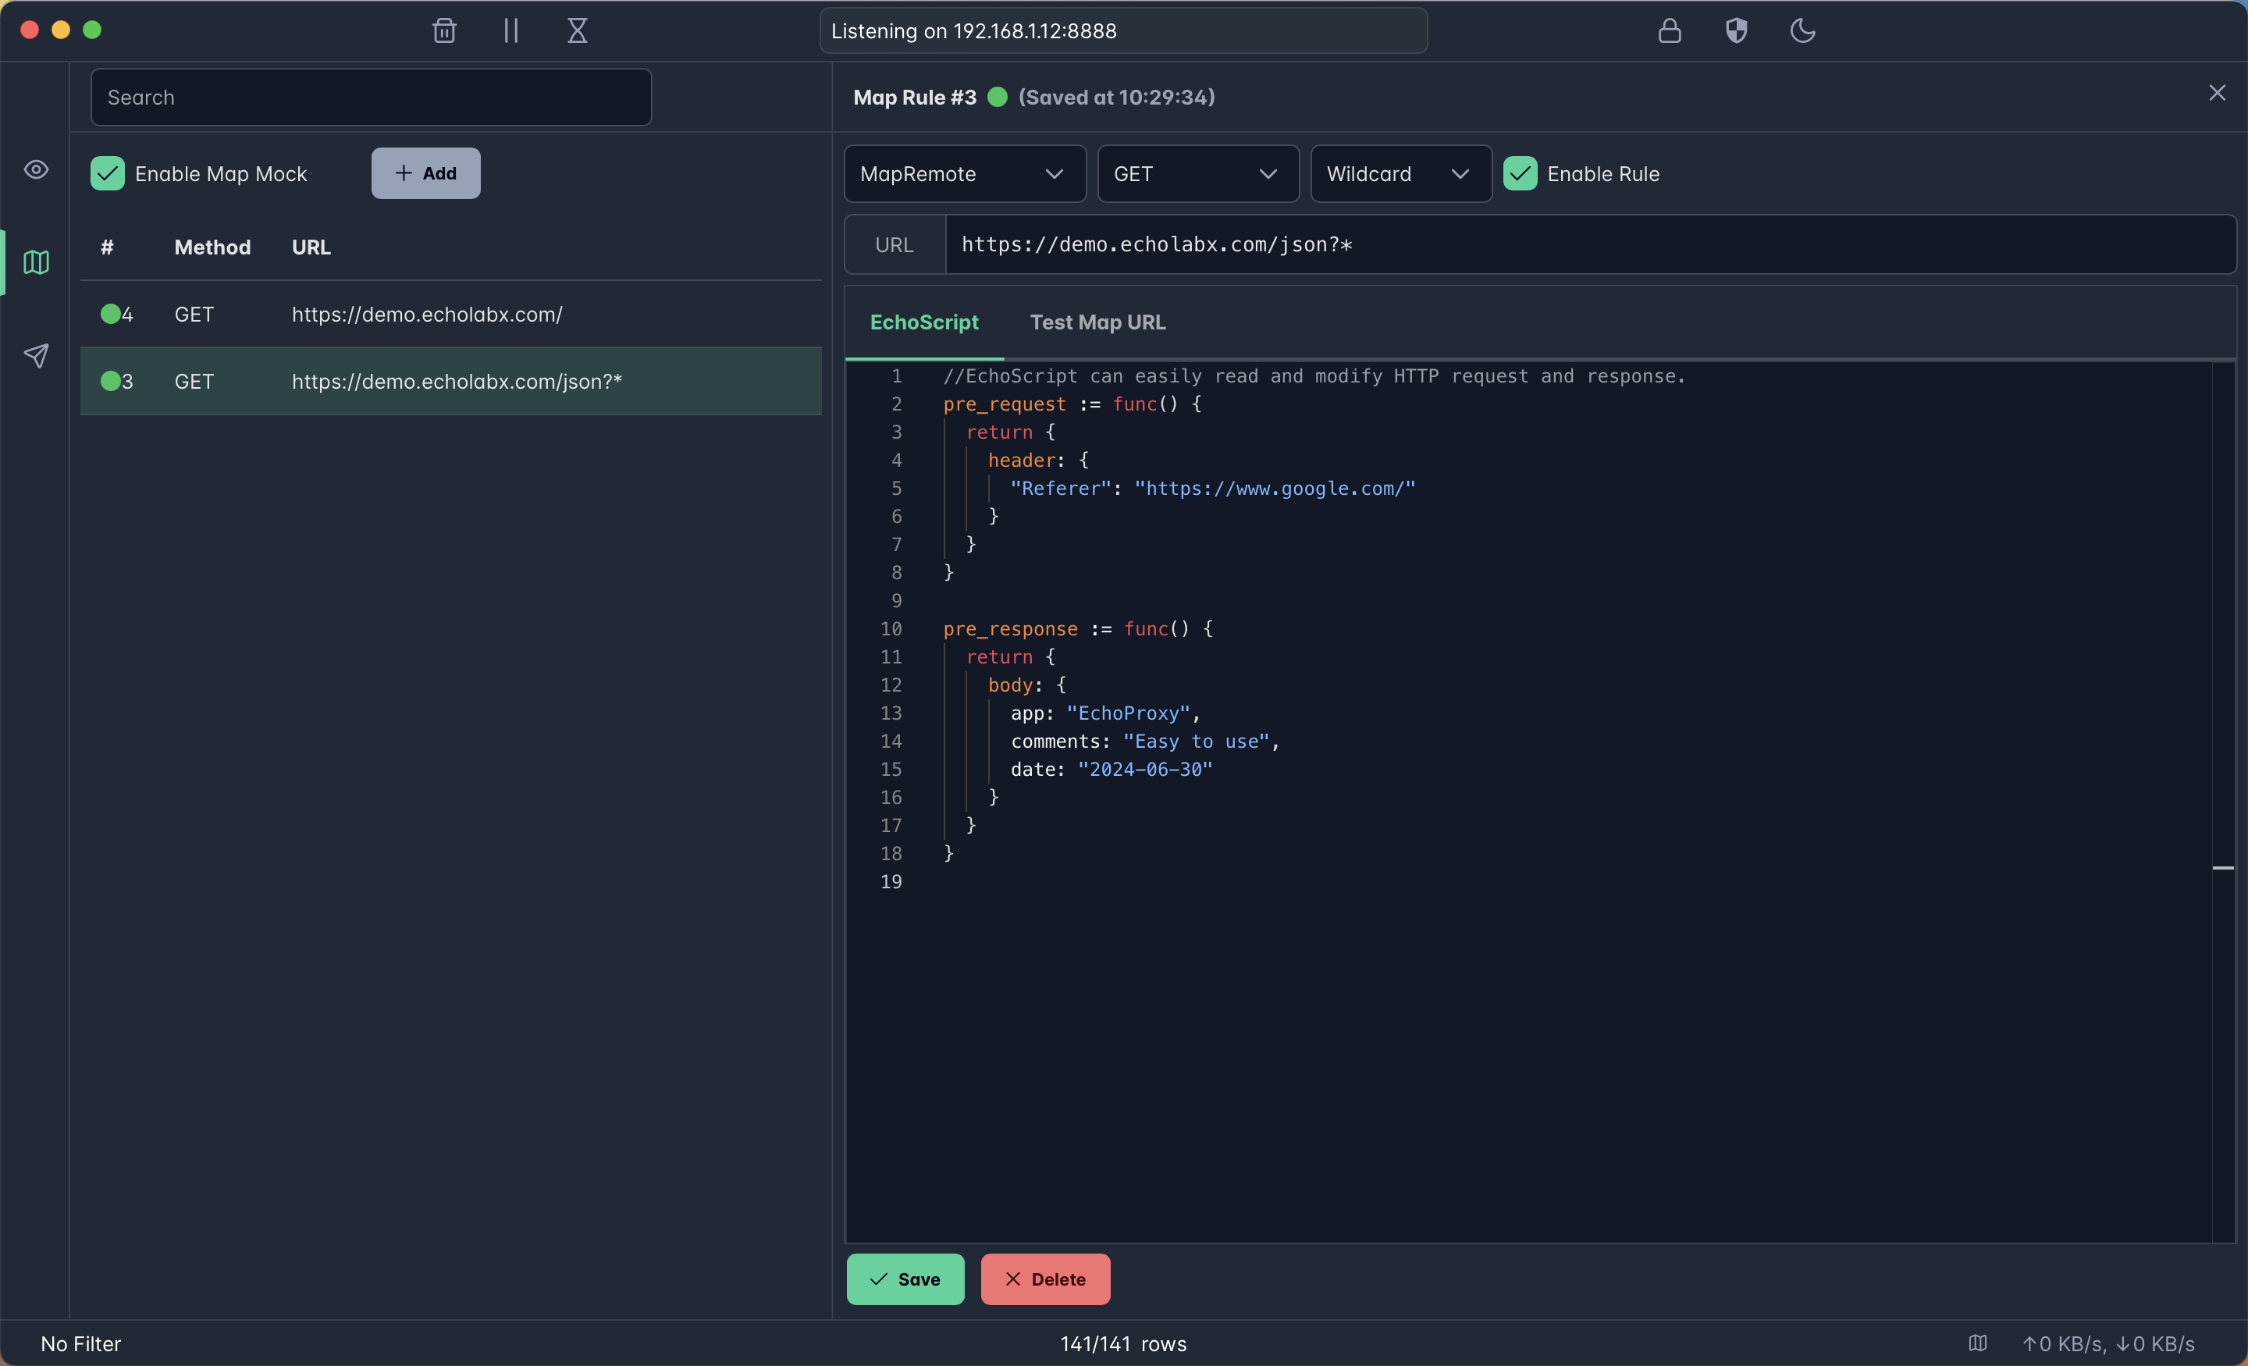
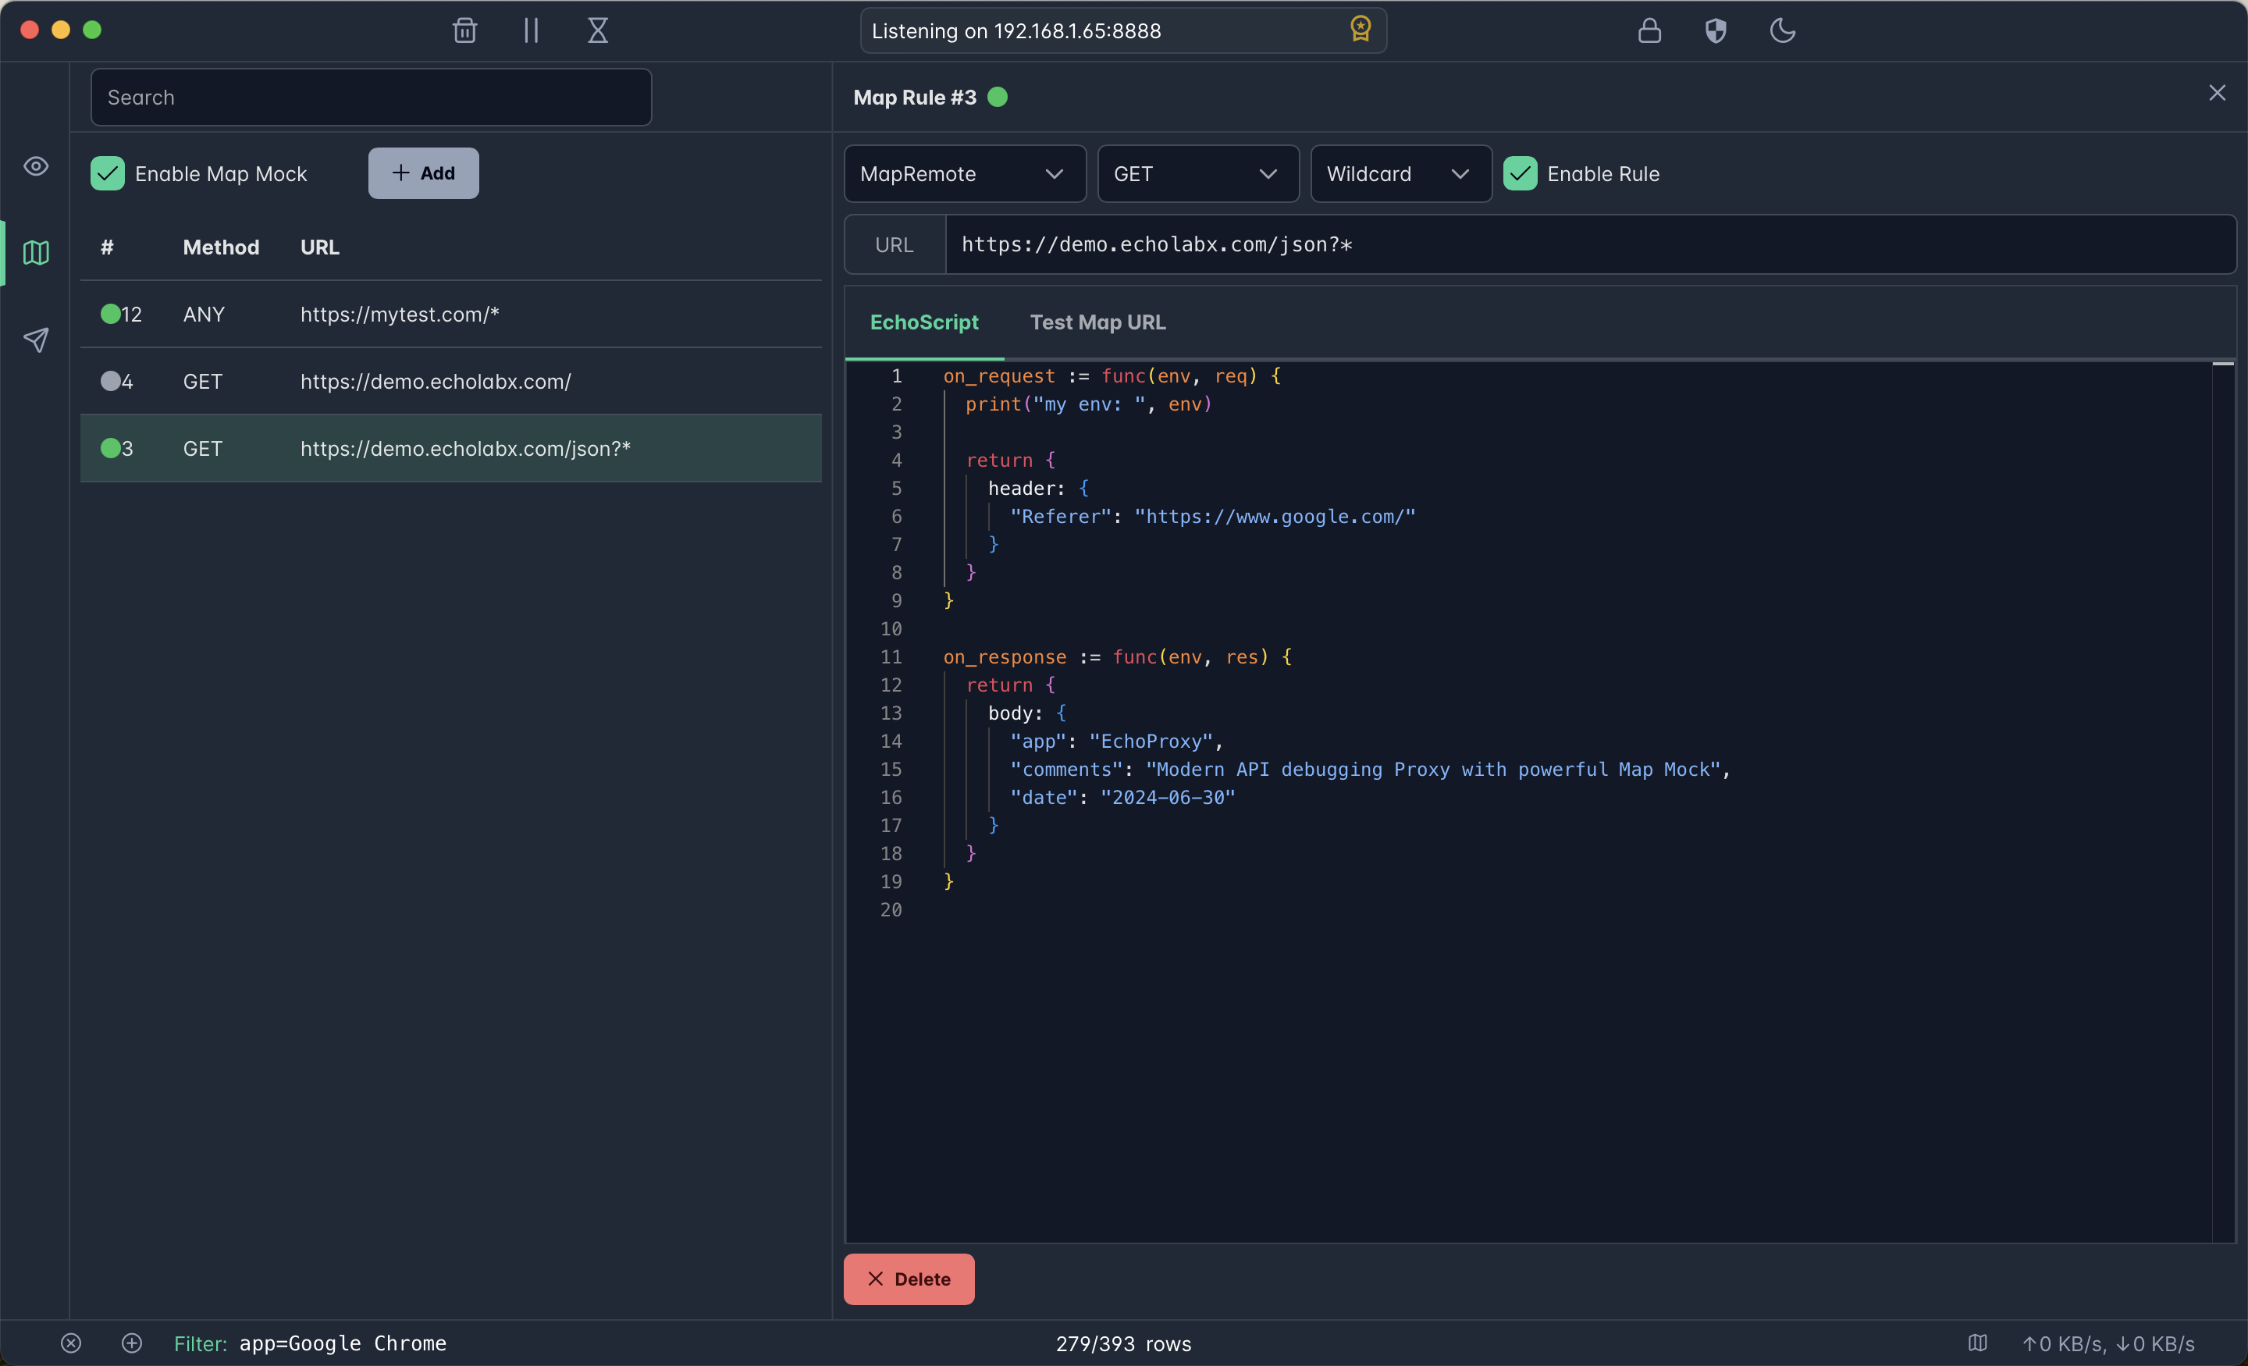
v0.9.1

diff --git a/README.md b/README.md
@@ -15,7 +15,7 @@ EchoProxy is a modern API debugging proxy that offers powerful mapping and mocki
 
 Change Request **URL** and **Method**. It can be used for mapping APIs from PROD to DEV.
 ```go
-pre_request := func() {
+on_request := func(env, req) {
   return {
     url: "http://127.0.0.1:8080/json",
     method: "GET"
@@ -23,13 +23,17 @@ pre_request := func() {
 }
 ```
 
-Change Request **Header**. It can be used for debugging other developer's API.
+Change Request **Header** and **Query**. It can be used for debugging other developer's API.
 ```go
-pre_request := func() {
+on_request := func(env, req) {
   return {
     header: {
       "Referer": "https://www.google.com/",
       "Accept-Encoding": "gzip"
+    },
+    query: {
+      "name": "EchoProxy",
+      "date": "2024-08-08"
     }
   }
 }
@@ -37,12 +41,12 @@ pre_request := func() {
 
 Change Response **Body**. It can be used for mocking APIs for debugging and testing.
 ```go
-pre_response := func() {
+on_response := func(env, res) {
   return {
     body: {
-      app: "EchoProxy",
-      comments: "Easy to use",
-      date: "2024-06-30" 
+      "app": "EchoProxy",
+      "comments": "Modern API debugging Proxy with powerful Map Mock",
+      "date": "2024-06-30" 
     }
   }
 }
@@ -51,4 +55,4 @@ pre_response := func() {
 The script changes request and response is named **EchoScript**. It is easy to learn and use.
 
 ## Download
-Comming soon.
+* [All Releases](https://github.com/echolabx/echoproxy/releases)

diff --git a/RELEASES.md b/RELEASES.md
@@ -1,0 +1,13 @@
+# EchoProxy
+
+## 0.9.1
+ - Rename EchoScript functions (on_request & on_response).
+ - Add EchoScript functions: print, printf, sprintf, exec, post.
+ - Improve EchoScript functions: file and attachment.
+ - Support audio content.
+ - Support HTTP body Save As file.
+ - Support hex viewer.
+ - Support reset certificate.
+
+## 0.9.0
+ - First Release
